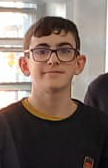
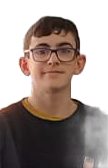
Cutout data/grupoinventado/blingyourver.json (quitar fondo)

diff --git a/js/ranking.js b/js/ranking.js
@@ -4,7 +4,7 @@
 /* ========================================= */
 
 /* Bump when the avatar images change, to bust the browser/Pages cache. */
-const PHOTO_VER = 182;
+const PHOTO_VER = 183;
 window.PHOTO_VER = PHOTO_VER;
 
 const Ranking = {
